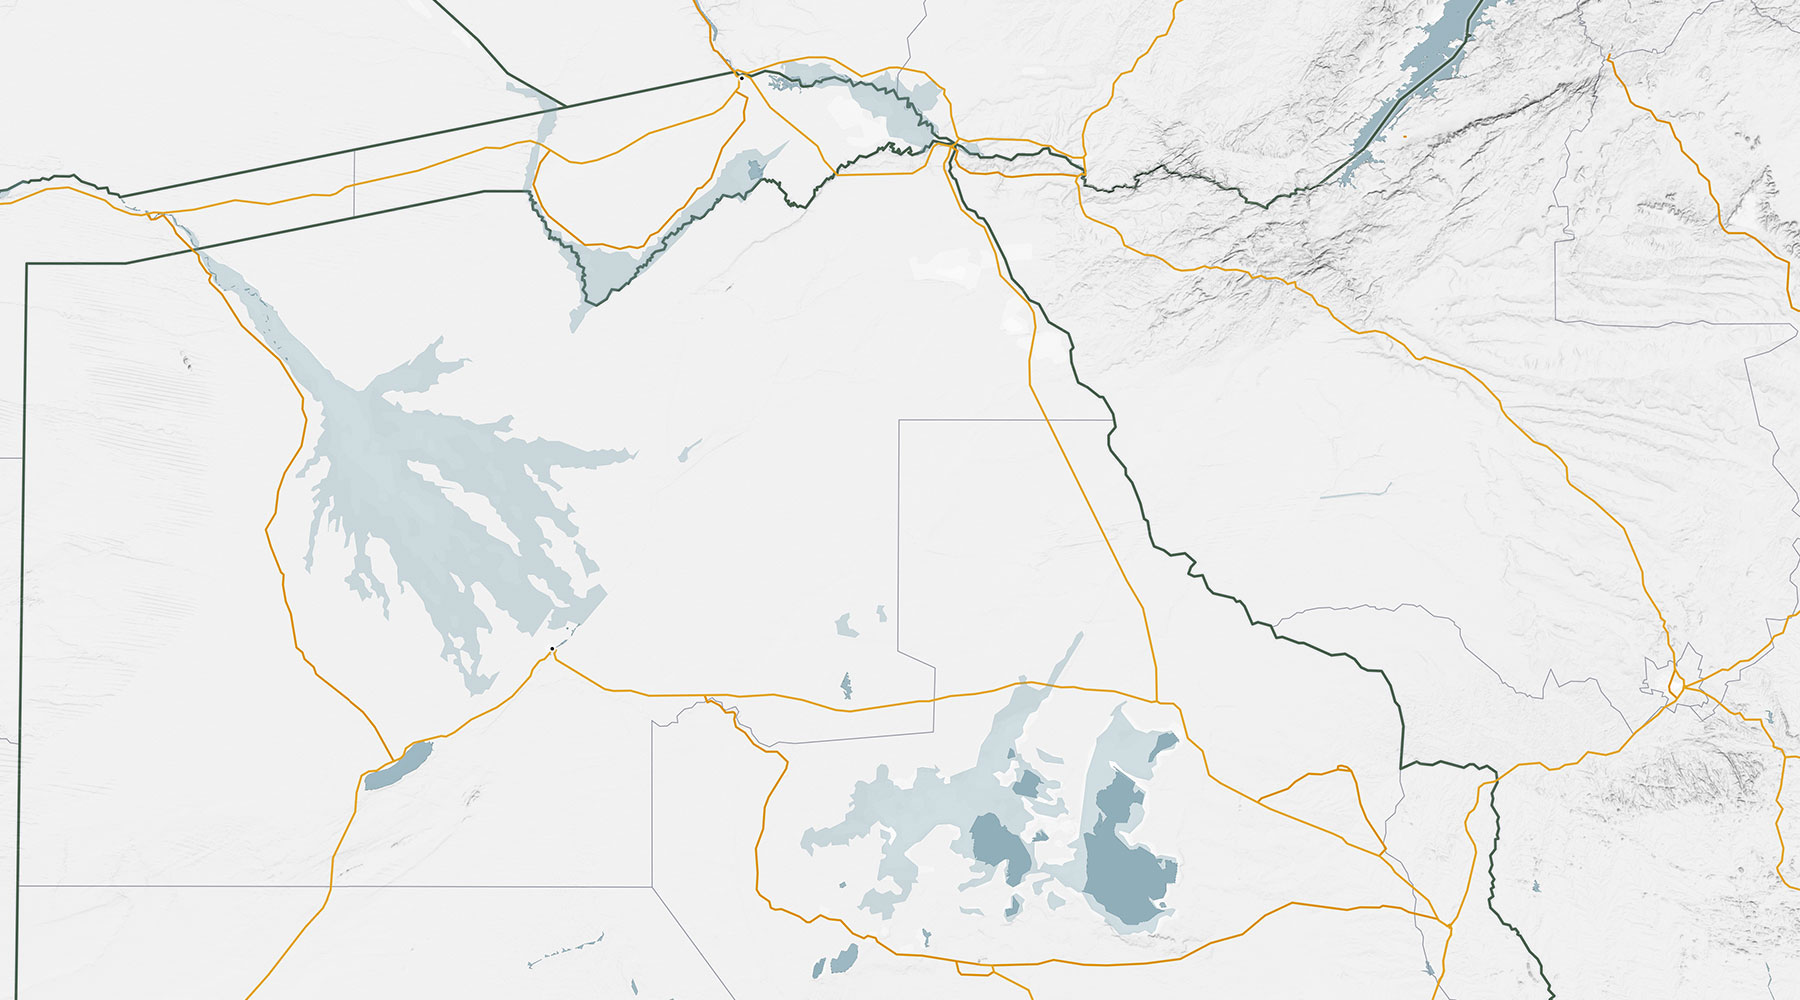
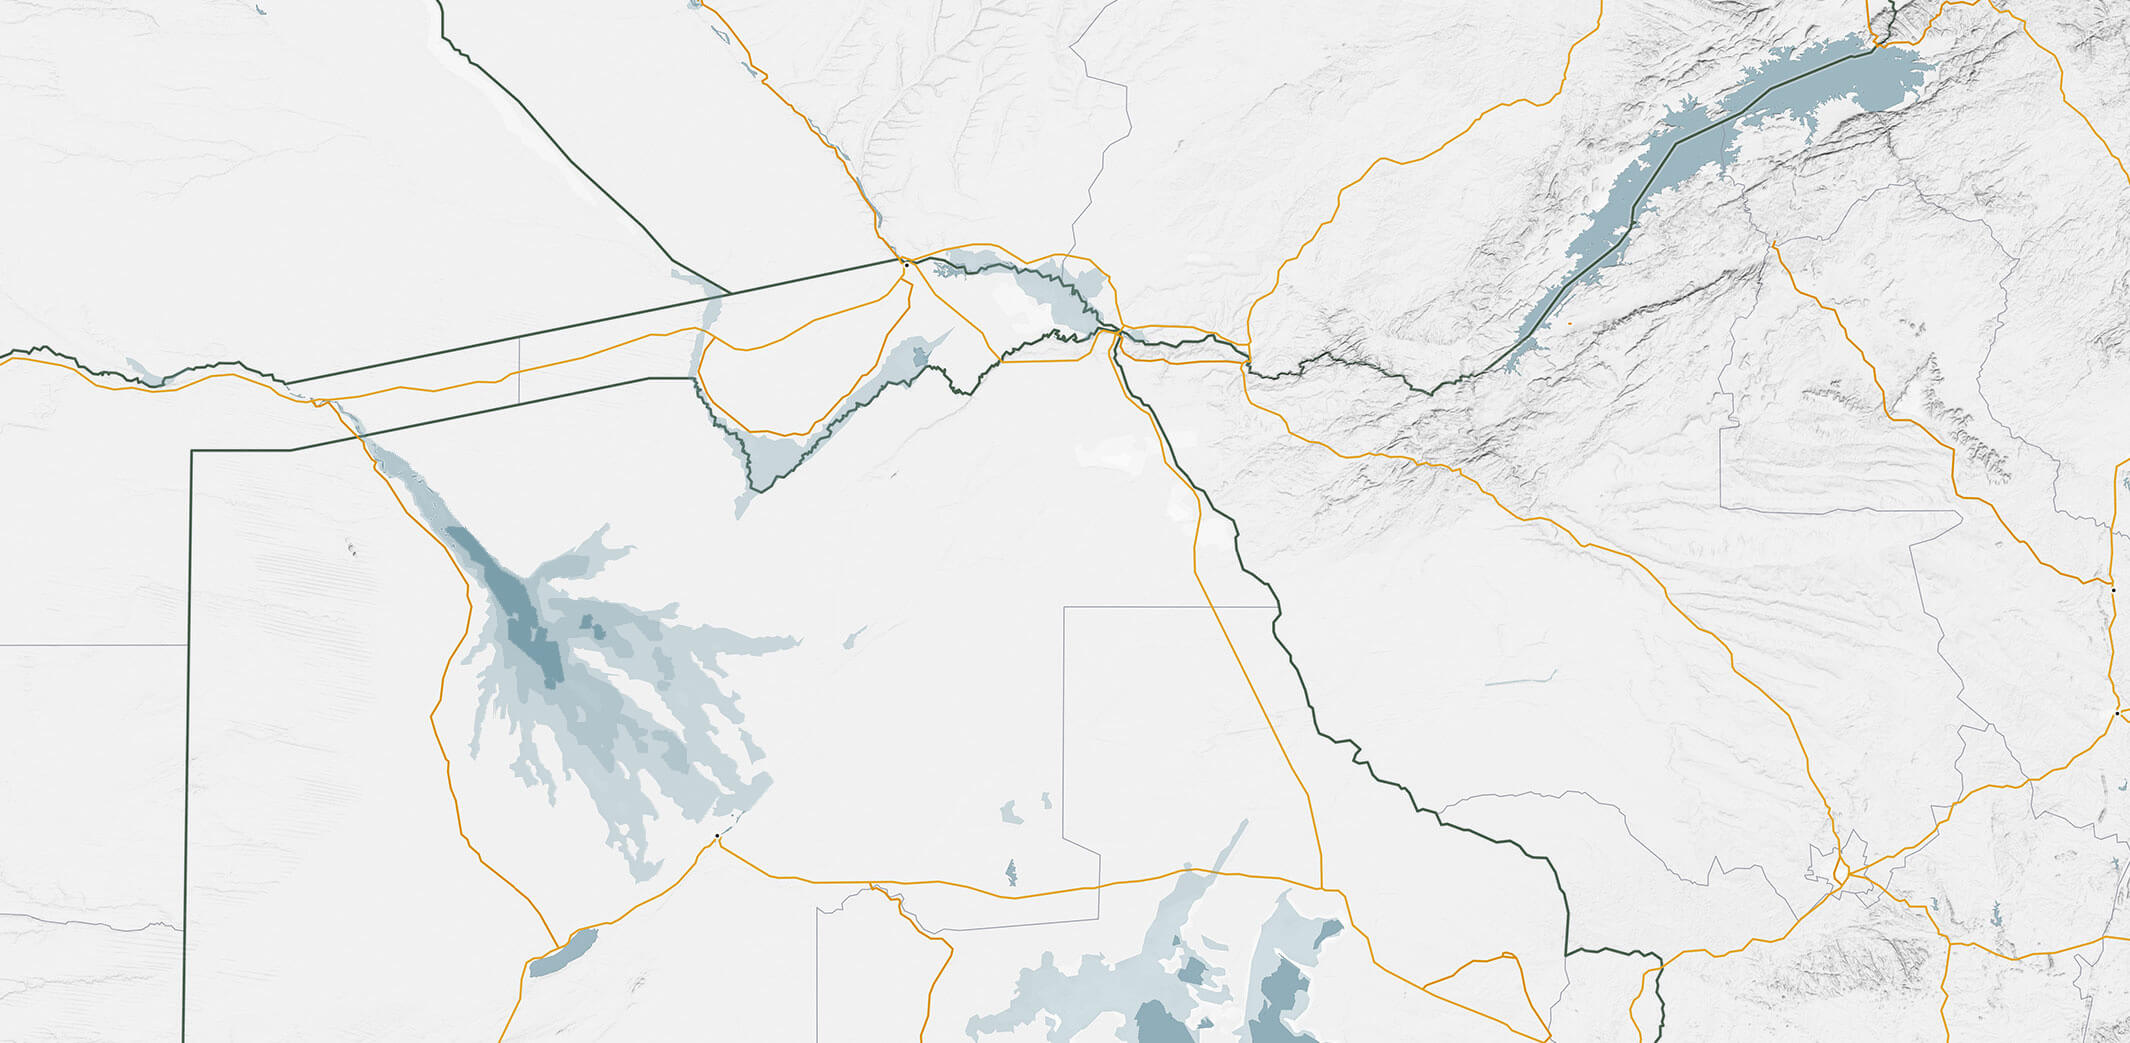
FIX - Map adjustments

diff --git a/template-parts/map-camps.php b/template-parts/map-camps.php
@@ -58,7 +58,7 @@ foreach($allCamps as $camp) {
 	
 	<div class="path-dotted-small"></div>
 	
-    <img src="<?php echo get_template_directory_uri(); ?>/inc/img/ddmastermap2.jpg"/>
+    <img src="<?php echo get_template_directory_uri(); ?>/inc/img/ddmastermap.jpg"/>
  
  
 <!-- Generator: Adobe Illustrator 22.1.0, SVG Export Plug-In  -->
